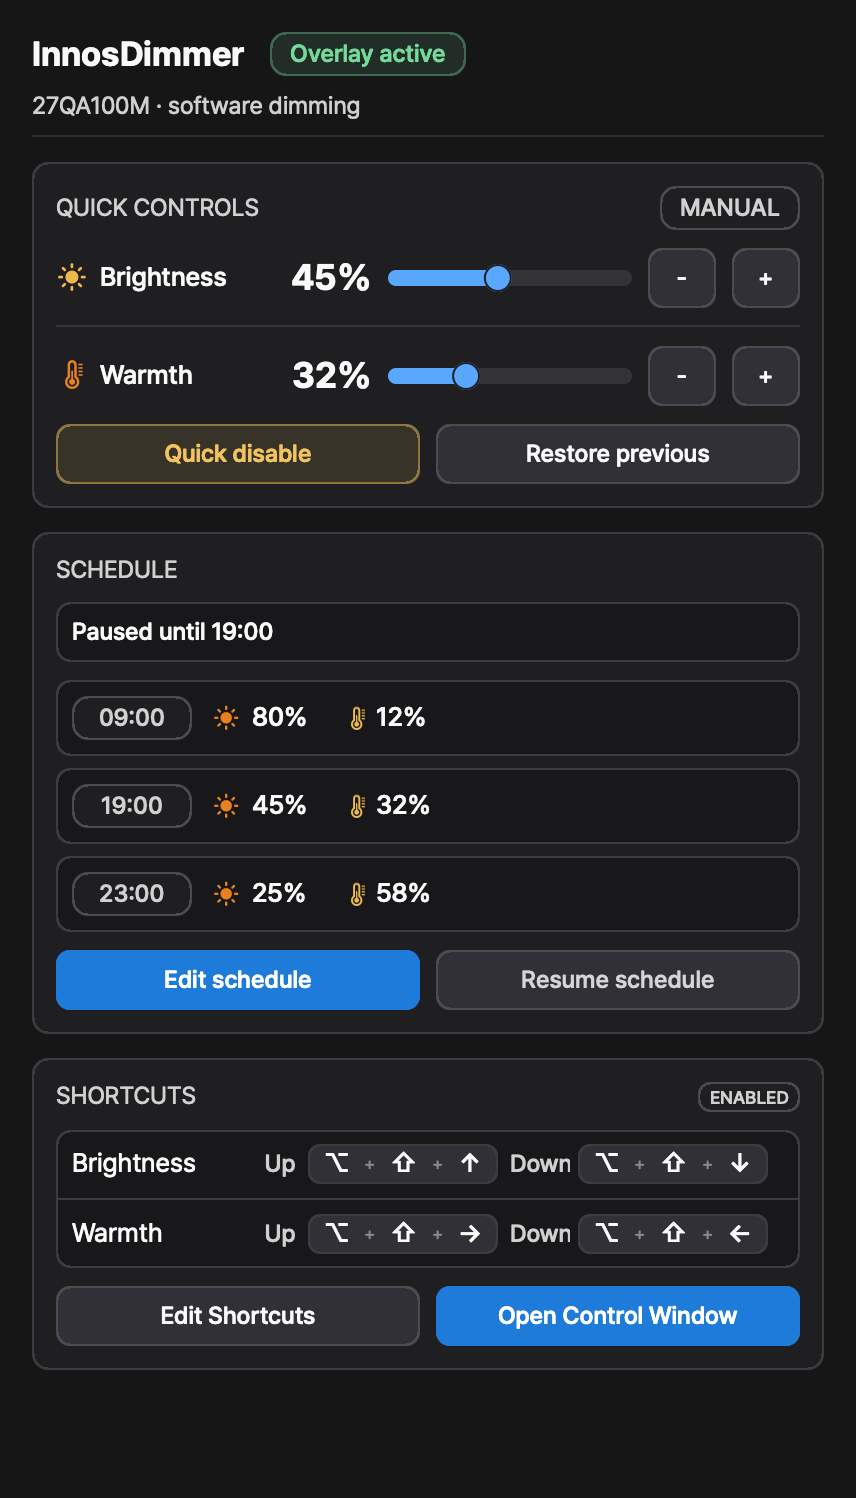
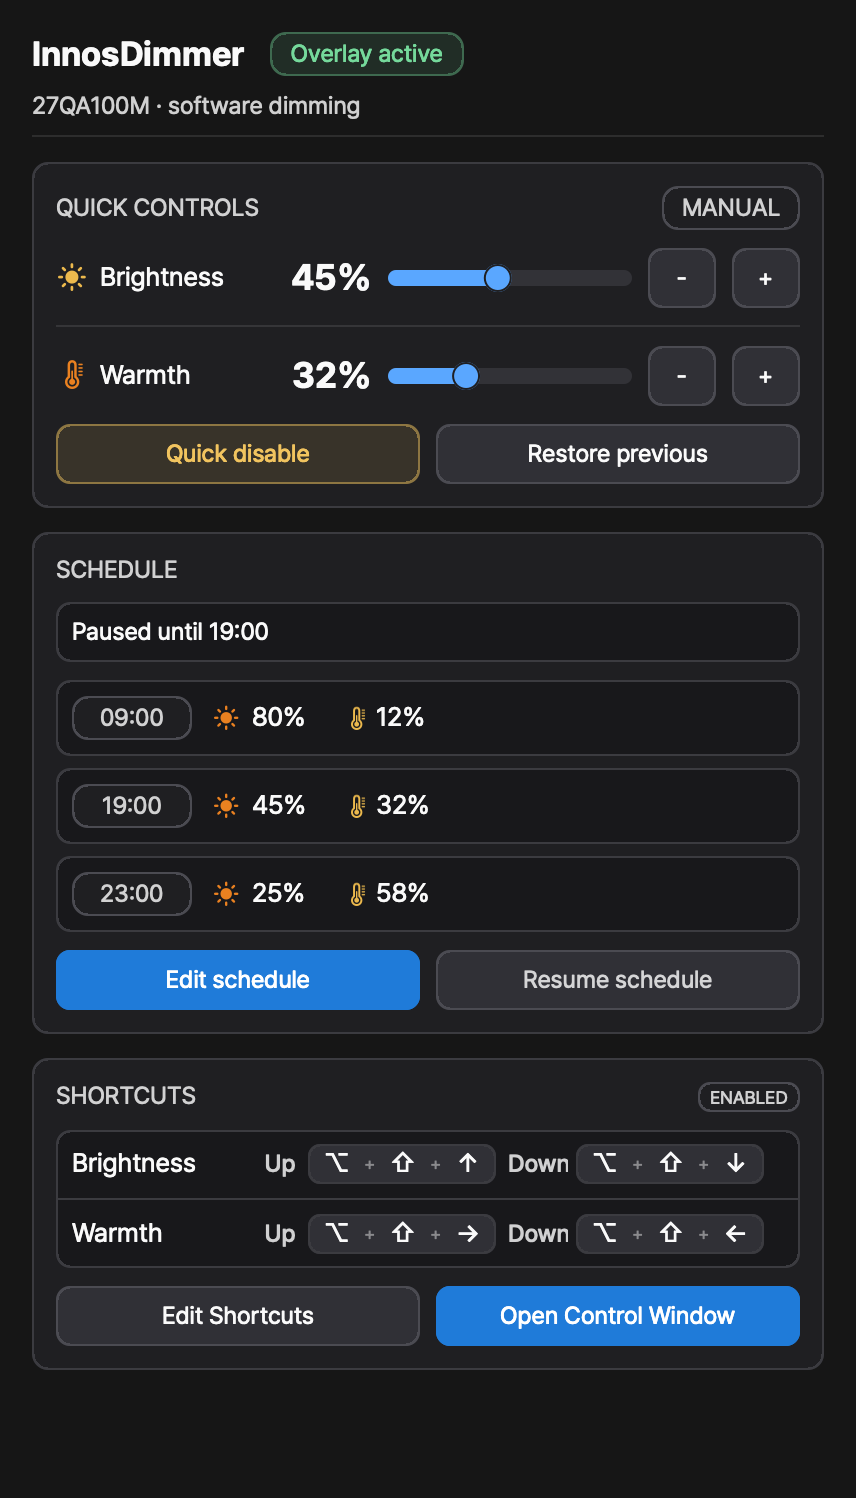
Match popover font weights to current mockup
Why: The current popover mockup uses stronger 600-level weights for labels, buttons, badges, and shortcut tokens, but production popover tokens were still lighter medium weights.

Key changes:

- Raise popover label, button, badge, shortcut token, and Off-chip font aliases to semibold.

- Keep directional shortcut labels medium and plus separators regular to preserve the lighter hierarchy from the mockup.

- Update current-state sync docs and refresh actual popover captures generated by tests.

Operator context:

- User asked to reflect the changed mockup font weights in the real app.

- Compared mockup-current CSS font weights against InnosDesignTokens popover aliases before patching.

- Left unrelated app-window and dashboard dirty files unstaged.

Verification:

- xcodebuild -project InnosDimmer.xcodeproj -scheme InnosDimmer -destination 'platform=macOS' CODE_SIGNING_ALLOWED=NO test -only-testing:InnosDimmerTests/MenuBarStateTests -only-testing:InnosDimmerTests/HotkeyBindingTests

- git diff --check

diff --git a/InnosDimmer/UI/DesignSystem/InnosDesignTokens.swift b/InnosDimmer/UI/DesignSystem/InnosDesignTokens.swift
@@ -51,16 +51,16 @@ enum InnosDesignTokens {
 
         static var popoverTitle: NSFont { app(ofSize: 17, weight: .bold) }
         static var popoverSectionLabel: NSFont { app(ofSize: 12, weight: .semibold) }
-        static var popoverLabel: NSFont { app(ofSize: 13, weight: .medium) }
+        static var popoverLabel: NSFont { app(ofSize: 13, weight: .semibold) }
         static var popoverValue: NSFont { app(ofSize: 18, weight: .bold) }
-        static var popoverButton: NSFont { app(ofSize: 12, weight: .medium) }
-        static var popoverBadge: NSFont { app(ofSize: 12, weight: .medium) }
-        static var popoverBadgeCompact: NSFont { app(ofSize: 9, weight: .medium) }
+        static var popoverButton: NSFont { app(ofSize: 12, weight: .semibold) }
+        static var popoverBadge: NSFont { app(ofSize: 12, weight: .semibold) }
+        static var popoverBadgeCompact: NSFont { app(ofSize: 9, weight: .semibold) }
         static var popoverShortcutName: NSFont { app(ofSize: 13, weight: .semibold) }
         static var popoverShortcutDirection: NSFont { app(ofSize: 12, weight: .medium) }
-        static var popoverShortcutToken: NSFont { app(ofSize: 13, weight: .medium) }
+        static var popoverShortcutToken: NSFont { app(ofSize: 13, weight: .semibold) }
         static var popoverShortcutSeparator: NSFont { app(ofSize: 9, weight: .regular) }
-        static var popoverShortcutOff: NSFont { app(ofSize: 12, weight: .medium) }
+        static var popoverShortcutOff: NSFont { app(ofSize: 12, weight: .semibold) }
 
         static var sectionTitle: NSFont { sectionLabel }
         static var bodyEmphasis: NSFont { bodyStrong }

diff --git a/docs/design/popover-redesign/current-state-production-sync/2026-06-22-current-state-production-sync-plan-first.md b/docs/design/popover-redesign/current-state-production-sync/2026-06-22-current-state-production-sync-plan-first.md
@@ -279,16 +279,16 @@ private static func scheduleStatusDetail(state: BrightnessState, schedule: [Sche
 ```swift
 static var popoverTitle: NSFont { app(ofSize: 17, weight: .bold) }
 static var popoverSectionLabel: NSFont { app(ofSize: 12, weight: .semibold) }
-static var popoverLabel: NSFont { app(ofSize: 13, weight: .medium) }
+static var popoverLabel: NSFont { app(ofSize: 13, weight: .semibold) }
 static var popoverValue: NSFont { app(ofSize: 18, weight: .bold) }
-static var popoverButton: NSFont { app(ofSize: 12, weight: .medium) }
-static var popoverBadge: NSFont { app(ofSize: 12, weight: .medium) }
-static var popoverBadgeCompact: NSFont { app(ofSize: 9, weight: .medium) }
+static var popoverButton: NSFont { app(ofSize: 12, weight: .semibold) }
+static var popoverBadge: NSFont { app(ofSize: 12, weight: .semibold) }
+static var popoverBadgeCompact: NSFont { app(ofSize: 9, weight: .semibold) }
 static var popoverShortcutName: NSFont { app(ofSize: 13, weight: .semibold) }
 static var popoverShortcutDirection: NSFont { app(ofSize: 12, weight: .medium) }
-static var popoverShortcutToken: NSFont { app(ofSize: 13, weight: .medium) }
+static var popoverShortcutToken: NSFont { app(ofSize: 13, weight: .semibold) }
 static var popoverShortcutSeparator: NSFont { app(ofSize: 9, weight: .regular) }
-static var popoverShortcutOff: NSFont { app(ofSize: 12, weight: .medium) }
+static var popoverShortcutOff: NSFont { app(ofSize: 12, weight: .semibold) }
 ```
 
   - Proposed visible label update:

diff --git a/docs/design/popover-redesign/current-state-production-sync/research.md b/docs/design/popover-redesign/current-state-production-sync/research.md
@@ -196,9 +196,9 @@ Recommended implementation order:
 ```swift
 static var popoverTitle: NSFont { app(ofSize: 17, weight: .bold) }
 static var popoverSectionLabel: NSFont { app(ofSize: 12, weight: .semibold) }
-static var popoverLabel: NSFont { app(ofSize: 13, weight: .medium) }
+static var popoverLabel: NSFont { app(ofSize: 13, weight: .semibold) }
 static var popoverValue: NSFont { app(ofSize: 18, weight: .bold) }
-static var popoverButton: NSFont { app(ofSize: 12, weight: .medium) }
+static var popoverButton: NSFont { app(ofSize: 12, weight: .semibold) }
 static var popoverShortcutDirection: NSFont { app(ofSize: 12, weight: .medium) }
 static var popoverShortcutToken: NSFont { app(ofSize: 13, weight: .semibold) }
 static var popoverShortcutSeparator: NSFont { app(ofSize: 9, weight: .regular) }